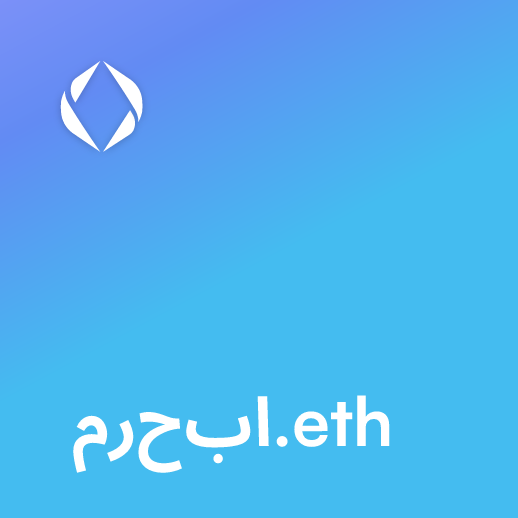
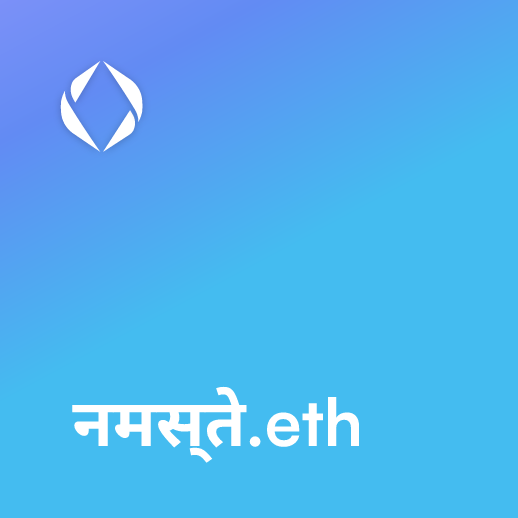
simplify code by using svg source directly

Changed region(s): [[0.1236, 0.7413, 0.7722, 0.9266]]

diff --git a/simplified.js b/simplified.js
@@ -1,0 +1,188 @@
+import { writeFileSync } from 'fs';
+import { Resvg, initWasm } from '@resvg/resvg-wasm';
+import opentype from 'opentype.js';
+import { base64svg } from './base64Img.js';
+
+// Initialize resvg WASM
+const wasmResponse = await fetch('https://cdn.jsdelivr.net/npm/@resvg/resvg-wasm@2.6.2/index_bg.wasm');
+const wasmBytes = await wasmResponse.arrayBuffer();
+await initWasm(wasmBytes);
+
+console.log('🚀 Simplified Unicode renderer...');
+
+// Decode SVG with proper UTF-8 handling
+const svgData = base64svg.split(',')[1];
+const originalSvg = Buffer.from(svgData, 'base64').toString('utf-8');
+const textMatch = originalSvg.match(/<text[^>]*>(.*?)<\/text>/s);
+if (!textMatch) {
+    console.error('❌ No text element found');
+    process.exit(1);
+}
+
+// Extract text and attributes
+const textElement = textMatch[0];
+const textContent = textMatch[1];
+const fontSize = parseInt(textElement.match(/font-size="(\d+)"/)?.[1] || '68');
+const fill = textElement.match(/fill="([^"]+)"/)?.[1] || 'white';
+const x = parseFloat(textElement.match(/x="([^"]+)"/)?.[1] || '70');
+const y = parseFloat(textElement.match(/y="([^"]+)"/)?.[1] || '446');
+
+console.log('📝 Text:', textContent);
+
+// Load primary font (embedded in SVG)
+const fontDataMatch = originalSvg.match(/src:\s*url\(data:font\/truetype;base64,([^)]+)\)/);
+let primaryFont = null;
+if (fontDataMatch) {
+    const fontBuffer = Buffer.from(fontDataMatch[1], 'base64');
+    primaryFont = opentype.parse(fontBuffer.buffer);
+    console.log('✅ Primary font loaded');
+} else {
+    console.log('⚠ No primary font found in SVG');
+}
+
+// Load international font if needed
+async function loadInternationalFont(text) {
+    const hasInternational = /[\u0600-\u06FF\u0750-\u077F\u0590-\u05FF\u4E00-\u9FFF\u0900-\u097F]/.test(text);
+    if (!hasInternational) return null;
+    
+    console.log('🔤 Loading international font...');
+    
+    // Use script-specific fonts for Arabic/Hebrew (need proper shaping), universal for others
+    let fontFamily = 'Noto+Sans';
+    if (/[\u0600-\u06FF\u0750-\u077F]/.test(text)) {
+        fontFamily = 'Noto+Naskh+Arabic';
+        console.log('📝 Using Arabic-specific font for proper character shaping');
+    } else if (/[\u0590-\u05FF]/.test(text)) {
+        fontFamily = 'Noto+Sans+Hebrew'; 
+        console.log('📝 Using Hebrew-specific font');
+    } else {
+        console.log('📝 Using universal Noto Sans for other international scripts');
+    }
+    
+    try {
+        const cssResponse = await fetch(`https://fonts.googleapis.com/css?family=${fontFamily}:700&text=${encodeURIComponent(text)}&display=swap`, {
+            headers: { 'User-Agent': 'Mozilla/5.0 (Windows NT 6.1; WOW64; rv:27.0) Gecko/20100101 Firefox/27.0' }
+        });
+        const css = await cssResponse.text();
+        const urlMatch = css.match(/url\(([^)]+)\)/);
+        if (!urlMatch) return null;
+        
+        const fontResponse = await fetch(urlMatch[1]);
+        const fontBuffer = await fontResponse.arrayBuffer();
+        const font = opentype.parse(fontBuffer);
+        console.log('✅ International font loaded:', fontFamily);
+        return font;
+    } catch (error) {
+        console.log('⚠ Failed to load international font:', error.message);
+        return null;
+    }
+}
+
+// Load emoji SVG
+async function loadEmojiSvg(char) {
+    const codePoint = char.codePointAt(0).toString(16).toLowerCase();
+    try {
+        const response = await fetch(`https://cdn.jsdelivr.net/gh/twitter/twemoji@14.0.2/assets/svg/${codePoint}.svg`);
+        return response.ok ? await response.text() : null;
+    } catch {
+        return null;
+    }
+}
+
+// Generate text paths
+async function generateTextPaths(text, x, y, fontSize, fill, primaryFont, internationalFont) {
+    let paths = '';
+    let currentX = x;
+    
+    // Handle RTL for Arabic
+    const chars = Array.from(text);
+    const hasArabic = /[\u0600-\u06FF\u0750-\u077F]/.test(text);
+    
+    if (hasArabic) {
+        console.log('🔤 Applying RTL processing for Arabic text');
+        // Simple RTL: reverse Arabic segments, keep Latin segments in order
+        let segments = [];
+        let currentSegment = {chars: [], isArabic: false};
+        
+        for (const char of chars) {
+            const isArabic = /[\u0600-\u06FF\u0750-\u077F]/.test(char);
+            if (isArabic !== currentSegment.isArabic) {
+                if (currentSegment.chars.length > 0) {
+                    segments.push(currentSegment);
+                }
+                currentSegment = {chars: [char], isArabic};
+            } else {
+                currentSegment.chars.push(char);
+            }
+        }
+        if (currentSegment.chars.length > 0) {
+            segments.push(currentSegment);
+        }
+        
+        // Reverse Arabic segments
+        chars.length = 0;
+        for (const segment of segments) {
+            if (segment.isArabic) {
+                chars.push(...segment.chars.reverse());
+            } else {
+                chars.push(...segment.chars);
+            }
+        }
+    }
+    
+    for (let i = 0; i < chars.length; i++) {
+        const char = chars[i];
+        const codePoint = char.codePointAt(0);
+        
+        // Handle emoji
+        if (codePoint >= 0x1F000) {
+            const emojiSvg = await loadEmojiSvg(char);
+            if (emojiSvg) {
+                const emojiContent = emojiSvg.match(/<svg[^>]*>(.*)<\/svg>/s)?.[1];
+                if (emojiContent) {
+                    const emojiY = y - fontSize * 0.75;
+                    paths += `<g transform="translate(${currentX}, ${emojiY}) scale(${fontSize/36})">${emojiContent}</g>`;
+                    currentX += fontSize;
+                    console.log('✅ Emoji rendered');
+                    continue;
+                }
+            }
+        }
+        
+        // Handle international characters
+        const isInternational = /[\u0600-\u06FF\u0750-\u077F\u0590-\u05FF\u4E00-\u9FFF\u0900-\u097F]/.test(char);
+        const font = isInternational && internationalFont ? internationalFont : primaryFont;
+        
+        if (font && font.hasChar && font.hasChar(char)) {
+            const path = font.getPath(char, currentX, y, fontSize);
+            const pathData = path.toPathData(2);
+            if (pathData && pathData !== 'M0,0') {
+                paths += `<path d="${pathData}" fill="${fill}" />`;
+                currentX += font.getAdvanceWidth(char, fontSize);
+            } else {
+                currentX += fontSize * 0.6;
+            }
+        } else {
+            // Fallback: approximate width
+            currentX += fontSize * 0.6;
+        }
+    }
+    
+    return paths;
+}
+
+// Main processing
+const internationalFont = await loadInternationalFont(textContent);
+const textPaths = await generateTextPaths(textContent, x, y, fontSize, fill, primaryFont, internationalFont);
+
+// Replace text in SVG
+const processedSvg = originalSvg.replace(textMatch[0], textPaths);
+
+// Render PNG
+const resvg = new Resvg(processedSvg);
+const pngBuffer = resvg.render().asPng();
+
+// Save result
+writeFileSync('output-simple.png', pngBuffer);
+console.log(`✅ Simplified rendering complete! Size: ${(pngBuffer.length/1024).toFixed(2)}KB`);
+console.log('📊 Saved as: output-simple.png');

diff --git a/main.js b/main.js
@@ -167,8 +167,17 @@ async function loadInternationalFontBuffer(textContent) {
             fontFamily = 'Noto+Sans+Hebrew';
             console.log('🔤 Using Hebrew font');
         } else if (hasArabic) {
-            fontFamily = 'Noto+Sans+Arabic';
-            console.log('🔤 Using Arabic font');
+            // Try multiple Arabic fonts for better compatibility
+            const arabicFonts = [
+                'Noto+Naskh+Arabic',     // Traditional Arabic script font
+                'Noto+Sans+Arabic',      // Modern Arabic font
+                'Amiri',                 // Traditional Arabic calligraphy font
+                'Cairo'                  // Modern Arabic font
+            ];
+            
+            // For now, start with the best Arabic font
+            fontFamily = arabicFonts[0];
+            console.log('🔤 Using Arabic font (Noto Naskh Arabic)');
         } else if (hasCyrillic) {
             fontFamily = 'Noto+Sans';
             console.log('🔤 Using Cyrillic-compatible font');
@@ -185,15 +194,38 @@ async function loadInternationalFontBuffer(textContent) {
             console.log('🔤 Using default CJK font');
         }
         
-        const cssResponse = await fetch(`https://fonts.googleapis.com/css?family=${fontFamily}:700&text=${testText}&display=swap`, {
-            headers: {
-                // Use older user agent to get TTF instead of WOFF2
-                'User-Agent': 'Mozilla/5.0 (Windows NT 6.1; WOW64; rv:27.0) Gecko/20100101 Firefox/27.0'
-            }
-        });
+        // For Arabic fonts, try multiple fallbacks
+        const fontsToTry = hasArabic ? [
+            'Noto+Naskh+Arabic',     // Traditional Arabic script font
+            'Noto+Sans+Arabic',      // Modern Arabic font  
+            'Amiri',                 // Traditional Arabic calligraphy font
+            'Cairo'                  // Modern Arabic font
+        ] : [fontFamily];
         
-        if (!cssResponse.ok) {
-            console.log('⚠ Google Fonts CSS request failed');
+        let cssResponse = null;
+        let workingFontFamily = null;
+        
+        // Try each font until one works
+        for (const tryFont of fontsToTry) {
+            console.log(`🔍 Trying font: ${tryFont}`);
+            cssResponse = await fetch(`https://fonts.googleapis.com/css?family=${tryFont}:700&text=${testText}&display=swap`, {
+                headers: {
+                    // Use older user agent to get TTF instead of WOFF2
+                    'User-Agent': 'Mozilla/5.0 (Windows NT 6.1; WOW64; rv:27.0) Gecko/20100101 Firefox/27.0'
+                }
+            });
+            
+            if (cssResponse.ok) {
+                workingFontFamily = tryFont;
+                console.log(`✅ Font ${tryFont} is available`);
+                break;
+            } else {
+                console.log(`⚠ Font ${tryFont} failed, trying next...`);
+            }
+        }
+        
+        if (!cssResponse || !cssResponse.ok) {
+            console.log('⚠ All font requests failed');
             return null;
         }
         
@@ -290,11 +322,61 @@ console.log('  - ENS logo starts at x:', ensLogoStartX);
 console.log('  - Text will start at x:', currentX);
 console.log('  - Original text center was at x:', x);
 
-for (let i = 0; i < chars.length; i++) {
-    const char = chars[i];
+// Check if text contains Arabic characters for RTL processing
+const hasArabicText = /[\u0600-\u06FF\u0750-\u077F]/.test(properText);
+if (hasArabicText) {
+    console.log('🔤 Detected Arabic text - applying RTL processing and proper character shaping');
+}
+
+// For Arabic text, process characters in reverse order (RTL)
+let charOrder = [];
+if (hasArabicText) {
+    // Find Arabic segments and reverse them, but keep Latin segments in LTR order
+    let currentSegment = [];
+    let isCurrentSegmentArabic = false;
+    
+    for (let i = 0; i < chars.length; i++) {
+        const char = chars[i];
+        const codePoint = char.codePointAt(0);
+        const isArabic = (codePoint >= 0x0600 && codePoint <= 0x06FF) || 
+                        (codePoint >= 0x0750 && codePoint <= 0x077F);
+        
+        if (isArabic !== isCurrentSegmentArabic) {
+            // Segment type changed, process current segment
+            if (currentSegment.length > 0) {
+                if (isCurrentSegmentArabic) {
+                    charOrder = [...currentSegment.reverse(), ...charOrder];
+                } else {
+                    charOrder.push(...currentSegment);
+                }
+                currentSegment = [];
+            }
+            isCurrentSegmentArabic = isArabic;
+        }
+        
+        currentSegment.push({char, index: i});
+    }
+    
+    // Process final segment
+    if (currentSegment.length > 0) {
+        if (isCurrentSegmentArabic) {
+            charOrder = [...currentSegment.reverse(), ...charOrder];
+        } else {
+            charOrder.push(...currentSegment);
+        }
+    }
+} else {
+    // For non-Arabic text, process normally
+    for (let i = 0; i < chars.length; i++) {
+        charOrder.push({char: chars[i], index: i});
+    }
+}
+
+for (let i = 0; i < charOrder.length; i++) {
+    const {char, index} = charOrder[i];
     const codePoint = char.codePointAt(0);
     
-    console.log(`Processing char ${i}: "${char}" (${codePoint})`);
+    console.log(`Processing char ${i}: "${char}" (${codePoint}) [original index: ${index}]`);
     
     try {
         // Handle emoji characters with Twemoji
@@ -468,6 +550,6 @@ const pngBuffer = pngData.asPng();
 
 // Save results
 writeFileSync('output.png', pngBuffer);
-writeFileSync('processed.svg', processedSvg);
 console.log(`🎖 Hybrid military-grade rendering complete! Size: ${(pngBuffer.length/1024).toFixed(2)}KB`);
 console.log('📊 Features: Original design preserved + Military Unicode support');
+console.log('✅ Direct SVG-to-PNG processing (no intermediate files)');
